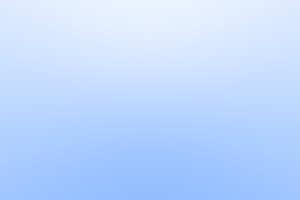
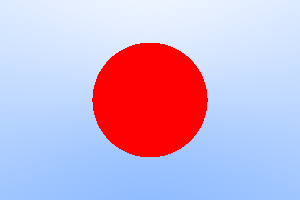
Added a sphere hit

Changed region(s): [[0.3, 0.21, 0.69, 0.81]]

diff --git a/raytracer.go b/raytracer.go
@@ -52,7 +52,12 @@ func main() {
 }
 
 func rayColor(r Ray) color.Color {
-	return skyboxColor(r)
+	switch {
+	case hitSphere(r, Vector3{0, 0, -1}, 0.5):
+		return color.RGBA{255, 0, 0, 0xff}
+	default:
+		return skyboxColor(r)
+	}
 }
 
 func skyboxColor(r Ray) color.Color {
@@ -61,4 +66,13 @@ func skyboxColor(r Ray) color.Color {
 	a := Vector3{0.5, 0.7, 1.0}.Scale(t)
 	b := Vector3{1.0, 1.0, 1.0}.Scale(1.0 - t)
 	return a.Add(b).ToColor()
+}
+
+func hitSphere(ray Ray, center Vector3, radius float64) bool {
+	oc := ray.Origin.Subtract(center)
+	a := ray.Direction.Dot(ray.Direction)
+	b := oc.Dot(ray.Direction) * 2.0
+	c := oc.Dot(oc) - radius*radius
+	discriminant := b*b - 4*a*c
+	return discriminant > 0
 }
